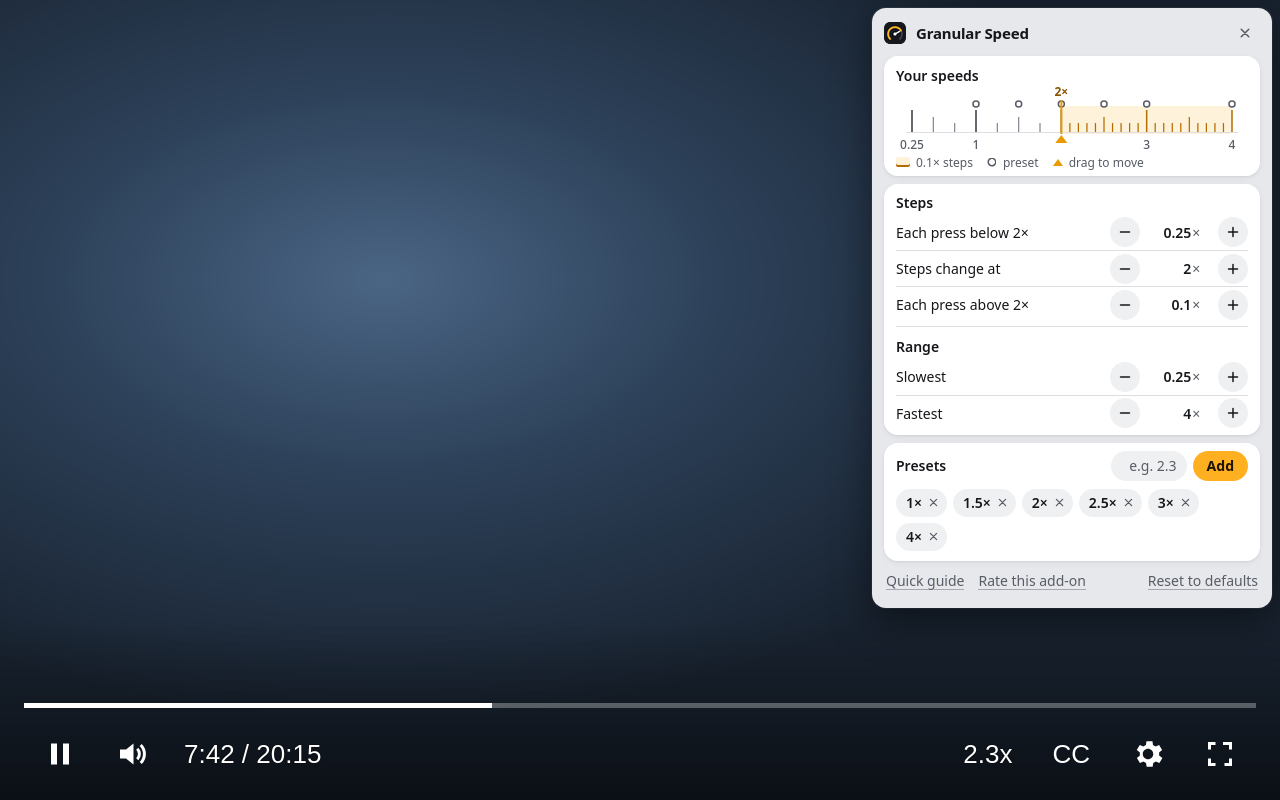
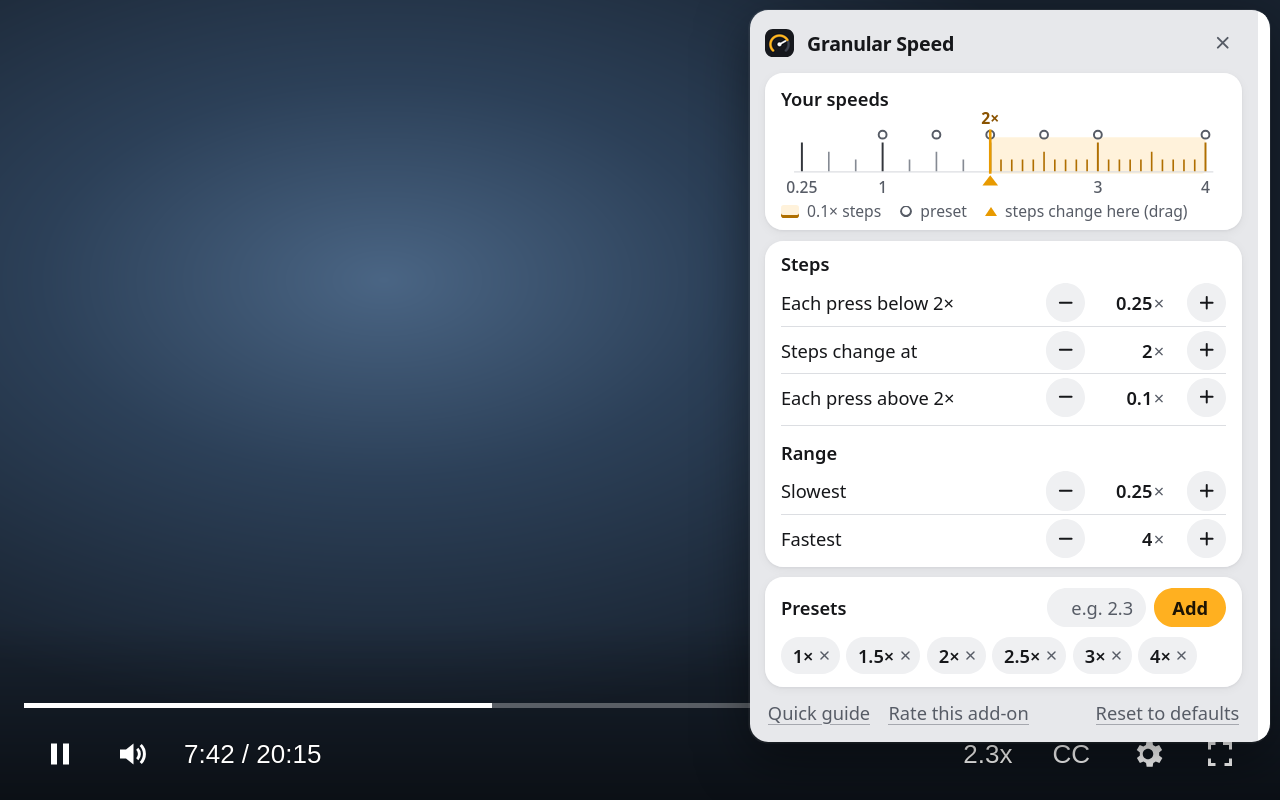
Design fixes from review: idle row note, presets on one row, outlined-preset note, legend; new hold screenshot

diff --git a/options.css b/options.css
@@ -156,9 +156,10 @@ h2 { margin: 0; font-size: 14px; font-weight: 600; }
 }
 .rows .row:first-child { border-top: 0; }
 .row label { flex: 1; cursor: default; }
-.idle-note { display: none; margin-left: 6px; color: var(--muted); font-size: 12px; }
-.row.idle .idle-note { display: inline; }
-.row.idle label > span:first-child,
+/* A step size with nothing to act on: label in muted, a note on a second line */
+.idle-note { display: none; color: var(--muted); font-size: 12px; line-height: 1.3; }
+.row.idle .idle-note { display: block; }
+.row.idle label > span:first-child { color: var(--muted); }
 .row.idle .stepper { opacity: .5; }
 .row.adjusted .value { animation: adjusted 1.4s ease-out; }
 @keyframes adjusted { 0%, 40% { box-shadow: 0 0 0 2px var(--accent); } }
@@ -235,7 +236,8 @@ h2 { margin: 0; font-size: 14px; font-weight: 600; }
 .chip:hover { background: var(--ctl-hover); }
 .chip:hover svg { color: var(--text); }
 /* Saved, but outside the range, so the player hides it */
-.chip.off { background: transparent; box-shadow: inset 0 0 0 1px var(--line); color: var(--muted); font-weight: 500; }
+.chip.off { background: transparent; box-shadow: inset 0 0 0 1px var(--tick); color: var(--muted); font-weight: 500; }
+.chips-note { margin: 2px 0 4px; color: var(--muted); font-size: 12px; }
 .field-error { margin: 2px 0 0; color: var(--text); font-size: 13px; }
 .field-error::before { content: "! "; color: var(--accent-text); font-weight: 700; }
 .empty { color: var(--muted); font-size: 13px; padding: 6px 0; }
@@ -297,7 +299,7 @@ a:focus-visible { outline: 2px solid var(--focus); outline-offset: 2px; border-r
 
 /* Legend under the scale */
 .legend { display: flex; flex-wrap: wrap; gap: 4px 14px; margin: 2px 0 0; color: var(--muted); font-size: 12px; }
-.legend .key { display: inline-flex; align-items: center; gap: 6px; }
+.legend .key { display: inline-flex; align-items: center; gap: 6px; white-space: nowrap; }
 .sw { display: inline-block; flex: none; }
 .sw-zone { width: 14px; height: 10px; border-radius: 2px; background: var(--fine-zone); box-shadow: inset 0 -2px 0 var(--fine); }
 .sw-preset { width: 6px; height: 6px; border-radius: 50%; box-shadow: 0 0 0 1.5px var(--muted); margin: 0 2px; }
@@ -351,7 +353,9 @@ a:focus-visible { outline: 2px solid var(--focus); outline-offset: 2px; border-r
 :is([data-view="popup"], [data-view="overlay"]) .group:last-of-type { padding-bottom: 8px; }
 :is([data-view="popup"], [data-view="overlay"]) .subhead { margin-top: 4px; padding-top: 10px; }
 :is([data-view="popup"], [data-view="overlay"]) .value { min-width: 70px; }
-:is([data-view="popup"], [data-view="overlay"]) .chips { gap: 6px; padding: 8px 0 2px; }
-:is([data-view="popup"], [data-view="overlay"]) .chip { height: 28px; padding: 0 6px 0 10px; }
+/* Six presets fit on one row at the popup's 380px */
+:is([data-view="popup"], [data-view="overlay"]) .chips { gap: 5px; padding: 8px 0 2px; }
+:is([data-view="popup"], [data-view="overlay"]) .chip { height: 28px; padding: 0 5px 0 9px; gap: 2px; }
+:is([data-view="popup"], [data-view="overlay"]) .chip svg { width: 13px; height: 13px; }
 :is([data-view="popup"], [data-view="overlay"]) .note { margin: 2px 0 6px; }
 :is([data-view="popup"], [data-view="overlay"]) .link { padding: 2px 0; }

diff --git a/options.js b/options.js
@@ -104,7 +104,7 @@
       const text = document.createElement('span');
       const idle = document.createElement('span');
       idle.className = 'idle-note';
-      idle.textContent = 'not used';
+      idle.id = 'idle-' + f.key;
       label.append(text, idle);
       const stepper = document.createElement('div');
       stepper.className = 'stepper';
@@ -145,7 +145,7 @@
         save(next, moved.length ? 'Adjusted to fit' : 'Saved');
         for (const key of moved) markAdjusted(rows[key].row);
       });
-      rows[f.key] = { f, row, text, input, minus, plus };
+      rows[f.key] = { f, row, text, idle, input, minus, plus };
     }
   }
 
@@ -192,6 +192,8 @@
       empty.textContent = 'No presets. The player panel hides the preset row.';
       box.append(empty);
     }
+    // One line explains outlined chips, only while there are any.
+    $('offNote').hidden = !cfg.presets.some((p) => p < cfg.min || p > cfg.max);
     // At the limit, the Add field gives way to a short note in the same spot.
     const full = cfg.presets.length >= GS.LIMITS.presets;
     $('addForm').hidden = full;
@@ -297,7 +299,7 @@
     };
     if (s.threshold < s.max) item('sw-zone', fmt(s.stepHigh) + ' steps');
     if (GS.activePresets(s).length) item('sw-preset', 'preset');
-    item('sw-marker', 'drag to move');
+    item('sw-marker', 'steps change here (drag)');
   }
 
   function valueAt(clientX) {
@@ -354,8 +356,16 @@
       r.plus.setAttribute('aria-label', 'Increase ' + name.toLowerCase());
     }
     // With the switch point at an end, one step size has nothing to act on.
+    // The row says so on a second line under its label.
     rows.stepLow.row.classList.toggle('idle', s.threshold <= s.min);
     rows.stepHigh.row.classList.toggle('idle', s.threshold >= s.max);
+    rows.stepLow.idle.textContent = 'Not used: none below ' + fmt(s.threshold);
+    rows.stepHigh.idle.textContent = 'Not used: none above ' + fmt(s.threshold);
+    for (const key of ['stepLow', 'stepHigh']) {
+      const r = rows[key];
+      if (r.row.classList.contains('idle')) r.input.setAttribute('aria-describedby', 'idle-' + key);
+      else r.input.removeAttribute('aria-describedby');
+    }
     $('audioNote').hidden = s.max <= 8;
   }
 

diff --git a/options.html b/options.html
@@ -48,6 +48,7 @@
       </div>
       <p id="presetError" class="field-error" hidden></p>
       <div id="chips" class="chips"></div>
+      <p id="offNote" class="chips-note" hidden>Outlined: outside your range, so the player hides them.</p>
     </section>
 
     <footer class="foot">

diff --git a/DESIGN.md b/DESIGN.md
@@ -317,12 +317,13 @@ The form language is round. Both worlds share it, so they feel related without s
 
 ### Speed scale (extension signature)
 - An SVG drawn by options.js: one tick per reachable speed (major ticks darker and thicker), an amber fine-step zone wash (rx 3), preset speeds shown as 3px muted rings, and a 2px amber needle with a triangular head and a 650-weight value label. Only the marker can be dragged; a click elsewhere on the scale does nothing. Arrow keys move it. Its focus shows an amber wash and a 2px focus-amber ring on the hit area.
-- A one-line legend sits under the scale: an amber swatch for the second step size ("0.1× steps"), a ring for "preset", and the ▲ for "drag to move". A hidden sentence describes the scale for screen readers.
-- Rows: "Each press below 2×", "Steps change at", "Each press above 2×", then Slowest and Fastest. One name for the idea everywhere: where steps change. When the marker sits at an end, the row for the empty side dims to 50% with "not used".
+- A one-line legend sits under the scale: an amber swatch for the second step size ("0.1× steps"), a ring for "preset", and the ▲ for "steps change here (drag)". Each key stays on one line, and the legend fits one line in the 380px popup. A hidden sentence describes the scale for screen readers.
+- Rows: "Each press below 2×", "Steps change at", "Each press above 2×", then Slowest and Fastest. One name for the idea everywhere: where steps change. When the marker sits at an end, the row for the empty side has nothing to act on: its label turns muted, its stepper drops to 50%, and a 12px muted second line under the label says so ("Not used: none above 4×"). Screen readers get that line as the input's description.
 
 ### Chips (extension)
 - 32px control-grey pills with a 600-weight number and a muted 15px close icon that darkens to text colour on hover. Wrapping row, 8px gap.
-- A preset outside the current range stays saved and shows as an outlined muted chip (transparent fill, 1px line ring, weight 500). The player hides it until the range includes it again.
+- Compact (popup and settings window): 28px pills, 9px/5px side padding, a 13px icon 2px from the number, 5px gap, so the six default presets fit on one row at 380px.
+- A preset outside the current range stays saved and shows as an outlined muted chip (transparent fill, 1px tick-grey ring, weight 500). The player hides it until the range includes it again. While at least one exists, a 12px muted line under the chips explains it: "Outlined: outside your range, so the player hides them."
 - Preset errors appear in 13px text right under the Add field, marked with an amber "!", and clear as you type.
 
 ### Player speed button
